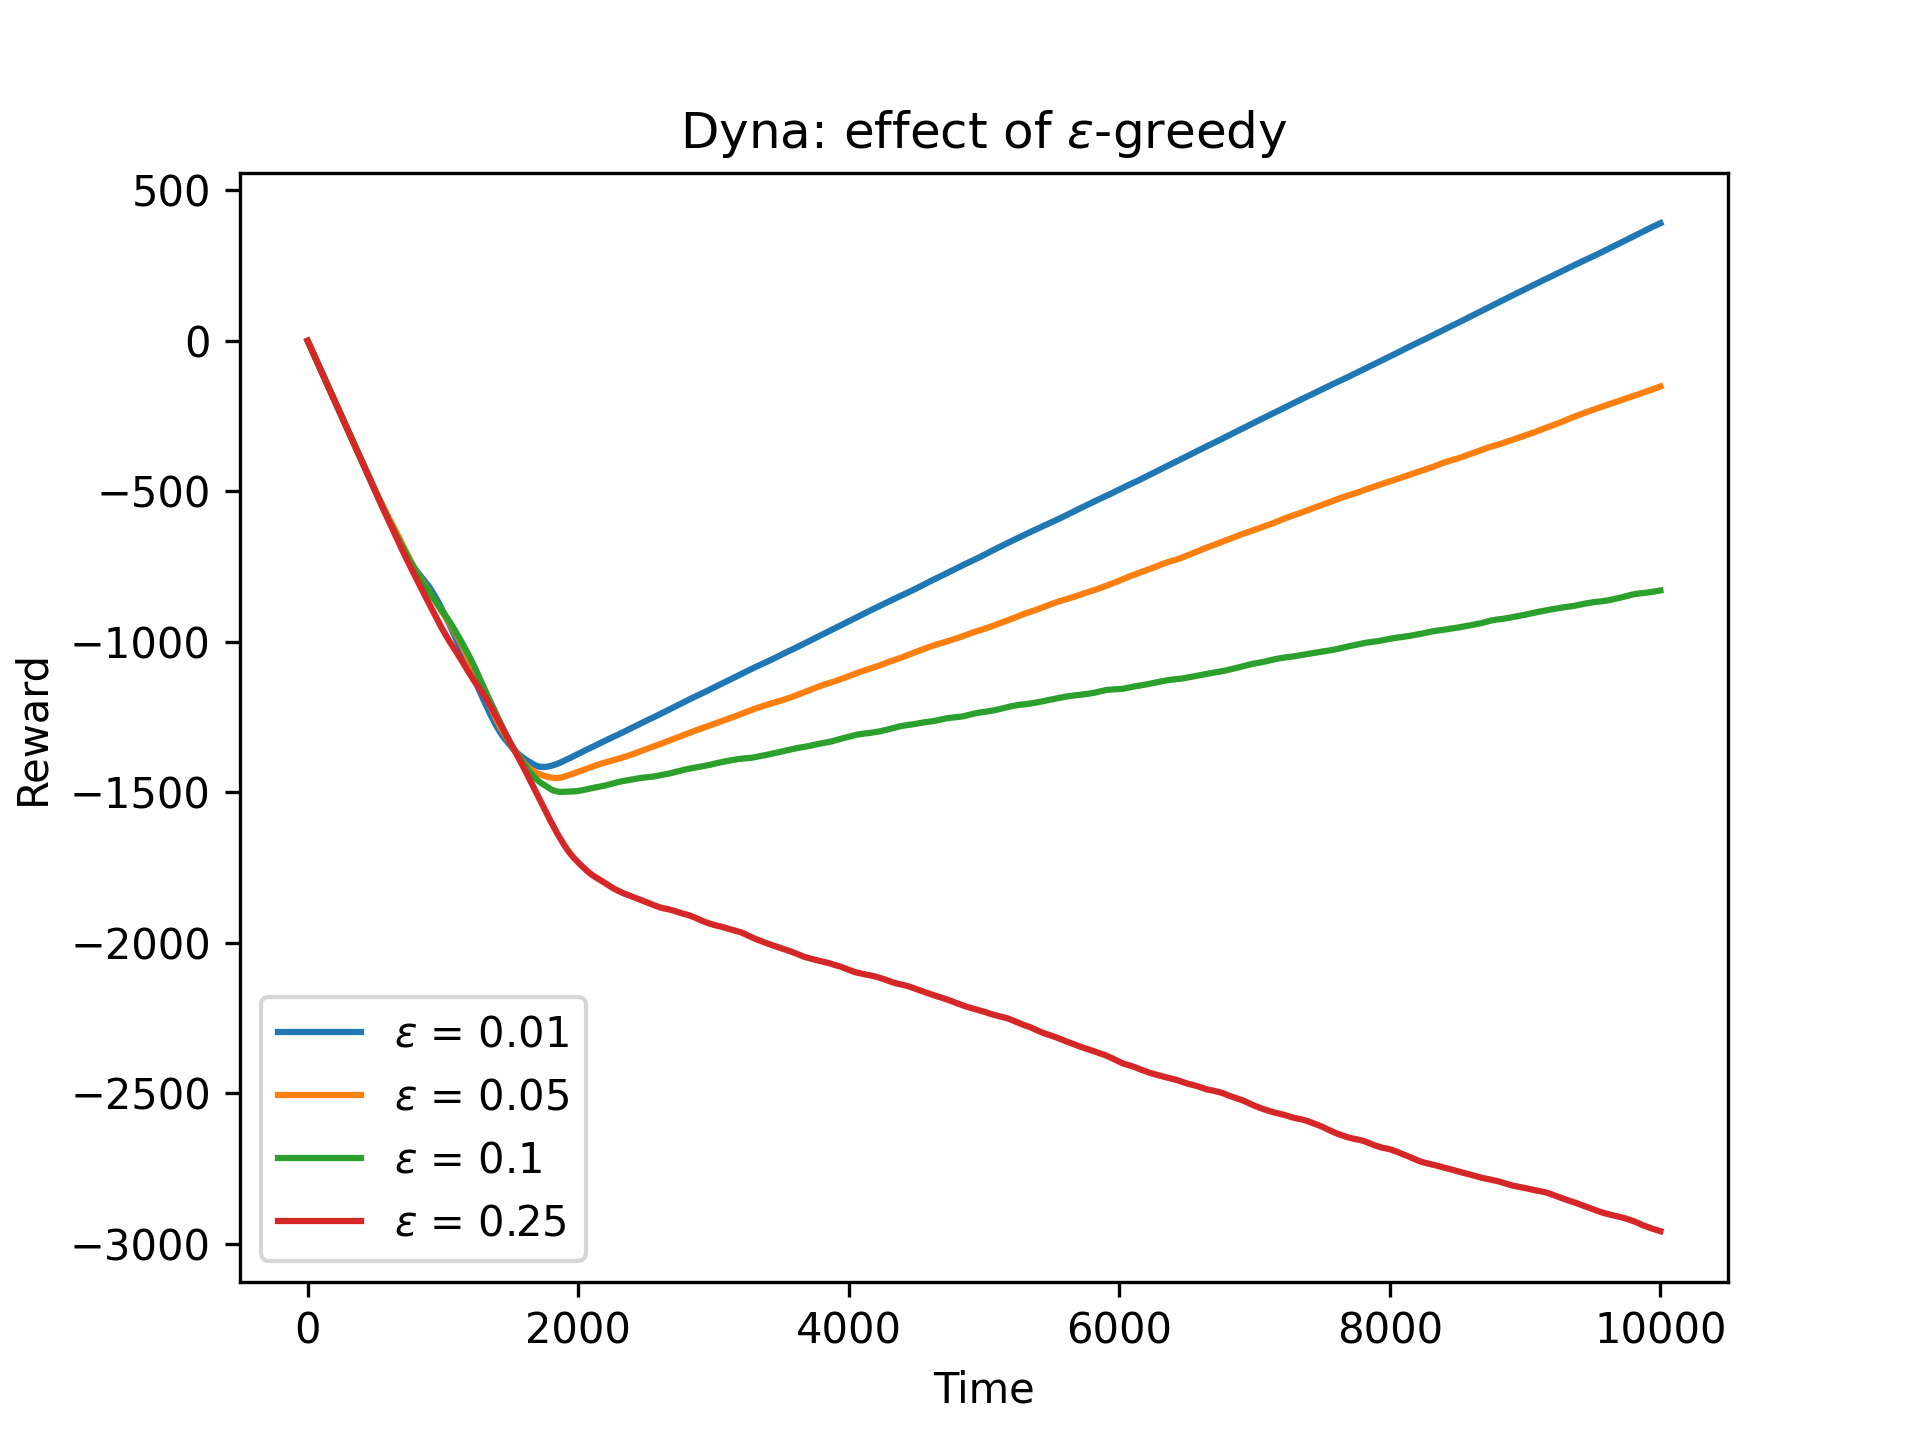
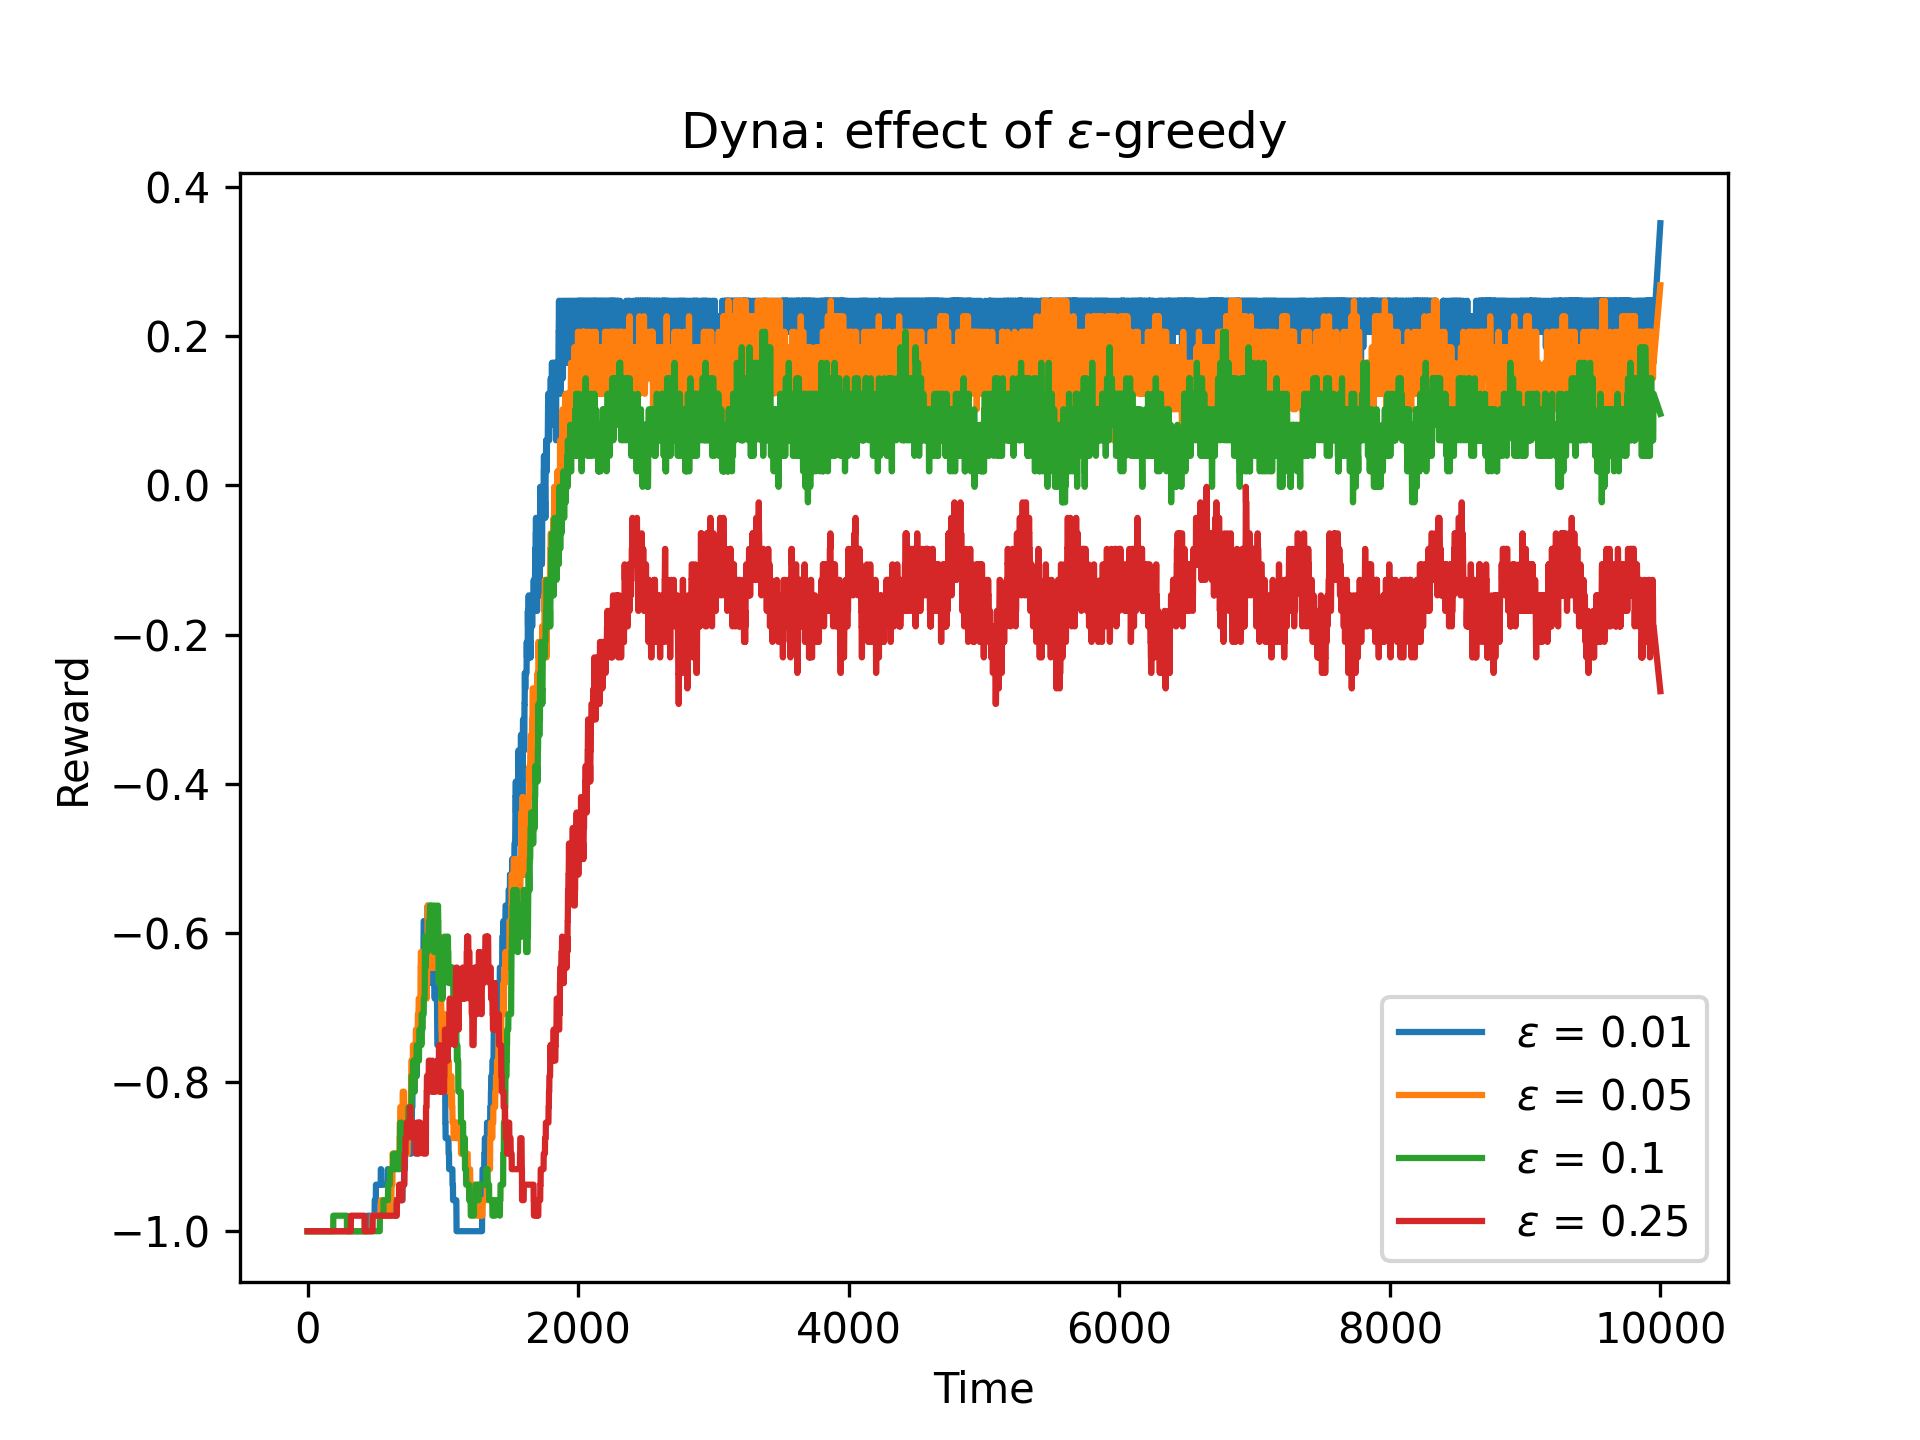
made plots

diff --git a/MBRLExperiment.py b/MBRLExperiment.py
@@ -41,8 +41,8 @@ def run_repetitions(policy, n_repetitions, n_timesteps, smoothing_window, learni
             # Select action, transition, update policy
             a = pi.select_action(s,epsilon)
             s_next,r,done = env.step(a)
-            total_r += r
-            rewards[t] = total_r
+            # total_r += r
+            rewards[t] = r
             pi.update(s, a, r, done, s_next,n_planning_updates=n_planning_updates)
             
             # Reset environment when terminated
